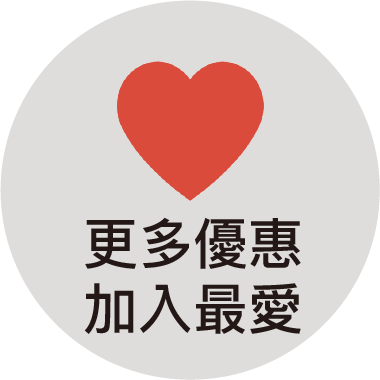
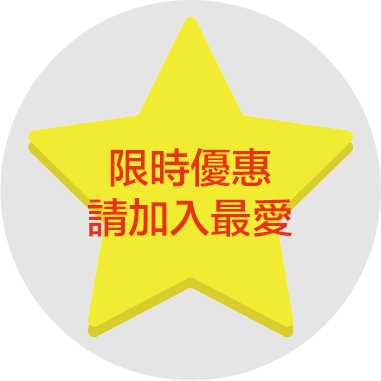
* 修改 訂單明細排版 * 修改 add favorite 圖 * 修改 fb 分享按鈕

diff --git a/resources/views/frontend/member/order_detail.blade.php b/resources/views/frontend/member/order_detail.blade.php
@@ -5,9 +5,45 @@
 @section('css')
     <style>
         .order_detail_div {
+            margin-top: 20px;
             padding-left: 20px;
             padding-bottom: 20px;
             padding-right: 20px;
+        }
+
+        .detail_img {
+            width: 300px;
+            height: 300px;
+        }
+
+        @media (max-width: 480px) {
+            .order_th {
+                width: 100px;
+            }
+
+            .detail_img {
+                width: 70px;
+                height: 70px;
+            }
+
+            .detail_name {
+                overflow: hidden;
+                text-overflow: ellipsis;
+                white-space: nowrap;
+            }
+
+            .detail_price {
+                color: #d8a91e;
+                float: left;
+            }
+
+            .detail_amount {
+                float: right;
+            }
+
+            .detail_spec {
+                color: #AAAAAA;
+            }
         }
     </style>
 
@@ -15,22 +51,46 @@
     <div class="new_arrivals_agile_w3ls_info ">
         <div class="container">
             <h2>訂單詳細資料</h2>
-            <div class="table-responsive" style="margin-top: 20px">
+            <div class="" style="margin-top: 20px">
                 <!-- Table -->
                 <table class="table table-bordered">
                     <tbody>
                     <tr>
-                        <th>訂單編號</th>
+                        <th class="order_th">訂單編號</th>
                         <td>{{$order->order_number}}</td>
+                    </tr>
+                    <tr>
+                        <th>收件人</th>
+                        <td>{{$order->order_name}}</td>
+                    </tr>
+                    <tr>
+                        <th>信箱</th>
+                        <td>{{$order->order_mail}}</td>
+                    </tr>
+                    <tr>
+                        <th>手機</th>
+                        <td>{{$order->order_phone}}</td>
+                    </tr>
+                    <tr>
+                        <th>市話</th>
+                        <td>{{$order->order_tel}}</td>
+                    </tr>
+                    <tr>
+                        <th>郵遞區號</th>
+                        <td>{{$order->order_zipcode}}</td>
+                    </tr>
+                    <tr>
+                        <th>地址</th>
+                        <td>{{$order->order_address}}</td>
                     </tr>
                     <tr>
                         <th>下訂時間</th>
                         <td>{{$order->created_at}}</td>
                     </tr>
-                    <tr>
+                    <tr class="hidden-xs">
                         <th>商品明細</th>
                         <td>
-                            <div class="table-responsive order_detail_div" style="margin-top: 20px">
+                            <div class="table-responsive order_detail_div">
                                 <table class="table">
                                     <thead>
                                     <tr>
@@ -41,7 +101,7 @@
                                     </tr>
                                     </thead>
                                     <tbody>
-                                    @foreach($order_details as $detail)
+                                    @foreach( $order_details as $detail)
                                         <tr>
                                             <td>{{$detail->name}}</td>
                                             <td>{{$detail->spec_name}}</td>
@@ -54,8 +114,23 @@
                             </div>
                         </td>
                     </tr>
+                    @foreach($order_details as $detail)
+                        <tr class="visible-xs">
+                            <td style="border-right-style: hidden;">
+                                <img class="detail_img" src="{{url(''.$detail->img)}}"
+                                     onError="this.src='{{$errorImgUrl}}'">
+                            </td>
+                            <td style="max-width: 100px;">
+                                <p class="detail_name">{{$detail->name}}</p>
+                                <p class="detail_price">${{$detail->price}}</p>
+                                <p class="detail_amount">x{{$detail->amount}}</p>
+                                <p class="clearFix"></p>
+                                <p class="detail_spec">{{$detail->spec_name}}</p>
+                            </td>
+                        </tr>
+                    @endforeach
                     <tr>
-                        <th>訂單總金額</th>
+                        <th>總金額</th>
                         <td>{{$order->order_total}}</td>
                     </tr>
                     <tr>

diff --git a/resources/views/frontend/commodity/commodity.blade.php b/resources/views/frontend/commodity/commodity.blade.php
@@ -351,10 +351,10 @@
                         <li>
                             <div id="fb-root"></div>
                             <div class="fb-share-button" data-href="{{url('commodity/'.$commodity->commodity_id)}}"
-                                 data-layout="button" data-size="small" data-mobile-iframe="false">
+                                 data-layout="button_count" data-size="small" data-mobile-iframe="false">
                                 <a target="_blank"
                                    href="https://www.facebook.com/sharer/sharer.php?u=https%3A%2F%2Fdevelopers.facebook.com%2Fdocs%2Fplugins%2F&amp;src=sdkpreparse"
-                                   class="fb-xfbml-parse-ignore"></a>
+                                   class="fb-xfbml-parse-ignore">分享</a>
                             </div>
                         </li>
                         <li>
@@ -509,11 +509,9 @@
     </script>
     <!-- //here ends scrolling icon -->
     <!-- fb -->
-    <script>
-        (function (d, s, id) {
+    <script>(function (d, s, id) {
             var js, fjs = d.getElementsByTagName(s)[0];
-            if (d.getElementById(id))
-                return;
+            if (d.getElementById(id)) return;
             js = d.createElement(s);
             js.id = id;
             js.src = 'https://connect.facebook.net/zh_TW/sdk.js#xfbml=1&version=v2.12';

diff --git a/resources/views/backstage/returns/edit.blade.php b/resources/views/backstage/returns/edit.blade.php
@@ -121,6 +121,13 @@
             </tr>
 
             <tr>
+                <th>備註：</th>
+                <td>
+                    <p>{{$data->returns_comment}}</p>
+                </td>
+            </tr>
+
+            <tr>
                 <th>退貨商品：</th>
                 <td>
                     @foreach($orderDetail as $v)
@@ -157,6 +164,28 @@
                     {{--</select>--}}
                 </td>
             </tr>
+
+            <tr>
+                <th>發布時間：</th>
+                <td>
+                    {{$data->created_at}}
+                </td>
+            </tr>
+
+            <tr>
+                <th>最後修改：</th>
+                <td>
+                    {{$data->updated_at}}
+                </td>
+            </tr>
+
+            <tr>
+                <th>編輯者：</th>
+                <td>
+                    {{$data->editor}}
+                </td>
+            </tr>
+
             <tr>
                 <th></th>
                 <td>

diff --git a/app/Http/Controllers/Frontend/OrderController.php b/app/Http/Controllers/Frontend/OrderController.php
@@ -9,6 +9,7 @@ use Exception;
 use Modules\Returns\Entities\Returns;
 use Modules\Order\Entities\Orderlist;
 use Modules\Order\Entities\Order;
+use Modules\Commodity\Entities\Commodity;
 use Illuminate\Http\Request;
 use App\Http\Controllers\Controller;
 
@@ -90,7 +91,8 @@ class OrderController extends CommonController
                     $detail->_status = "已取消";
                     break;
             }
-
+            $commodity = Commodity::select("commodity_image")->where("commodity_id", $detail->commodity_id)->first();
+            $detail->img = $commodity->commodity_image;
         }
         return view("frontend.member.order_detail", compact("order", "order_details"));
     }
